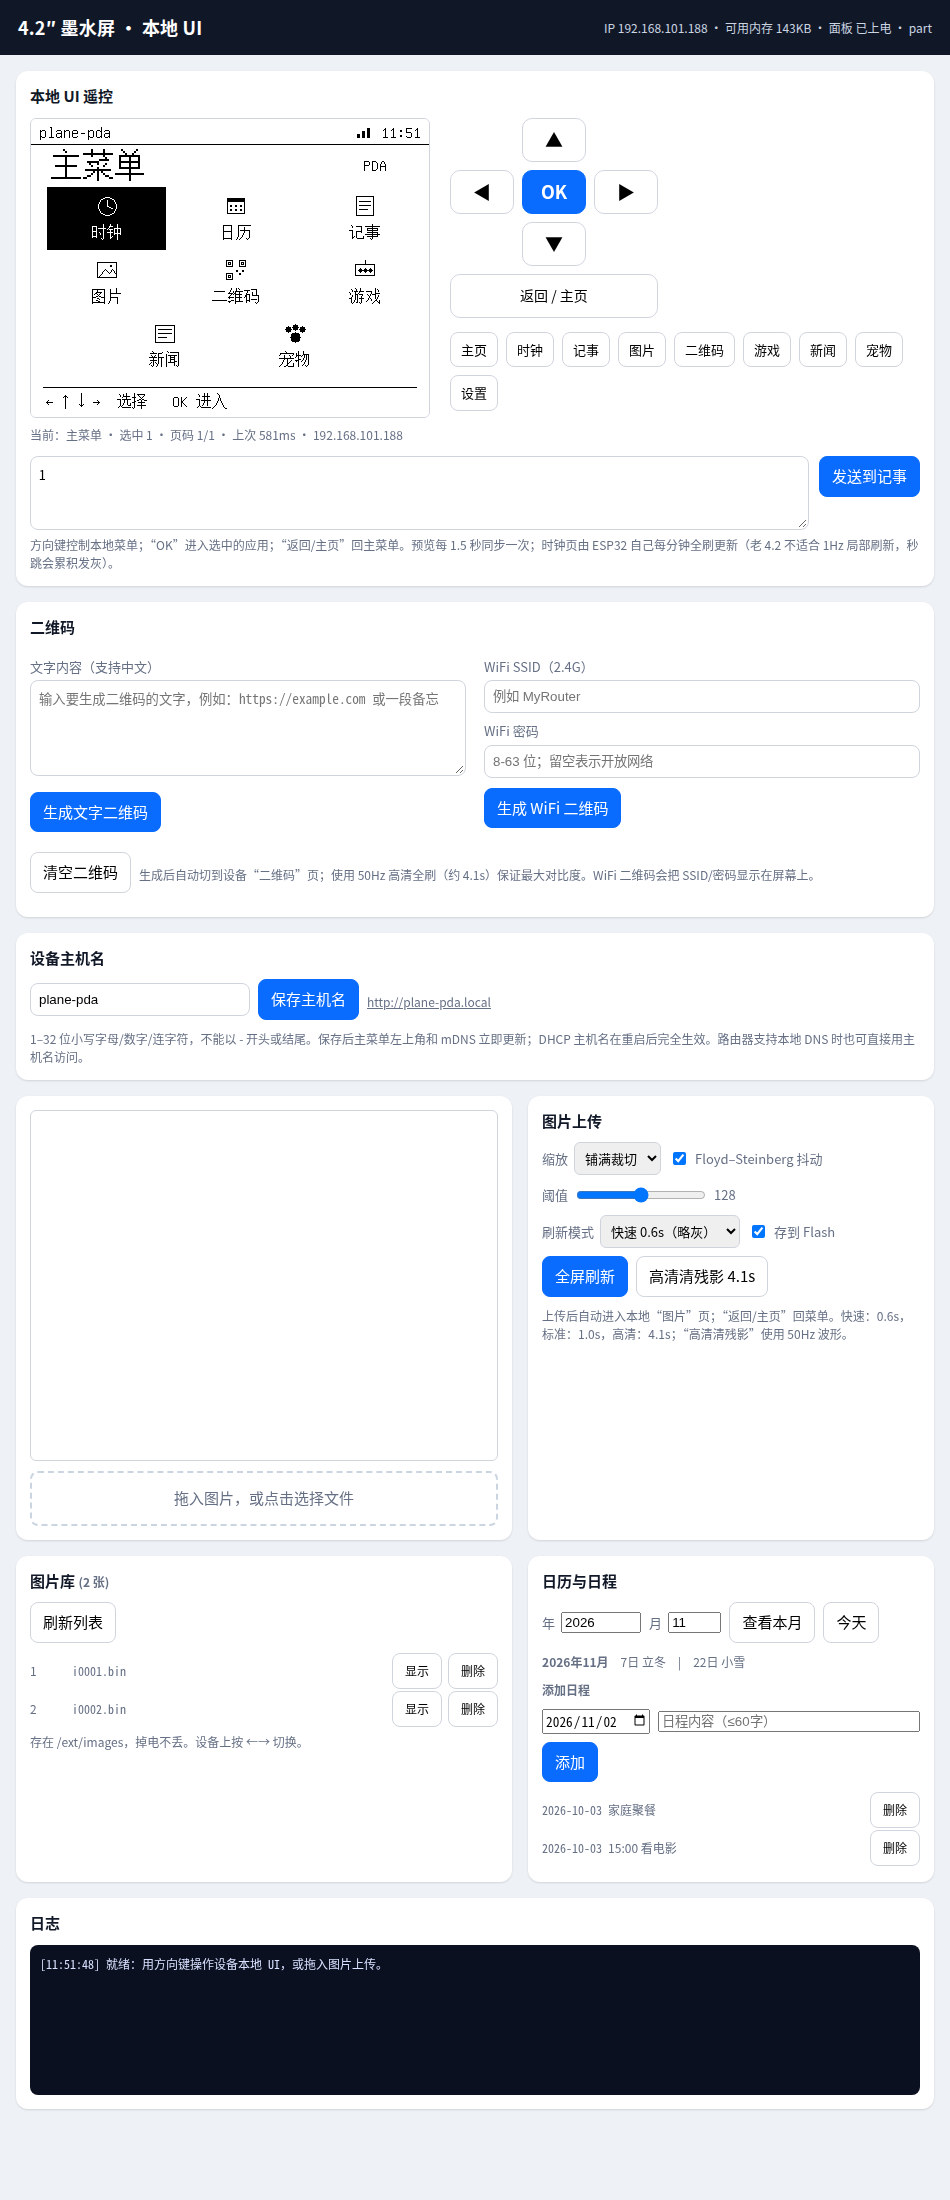
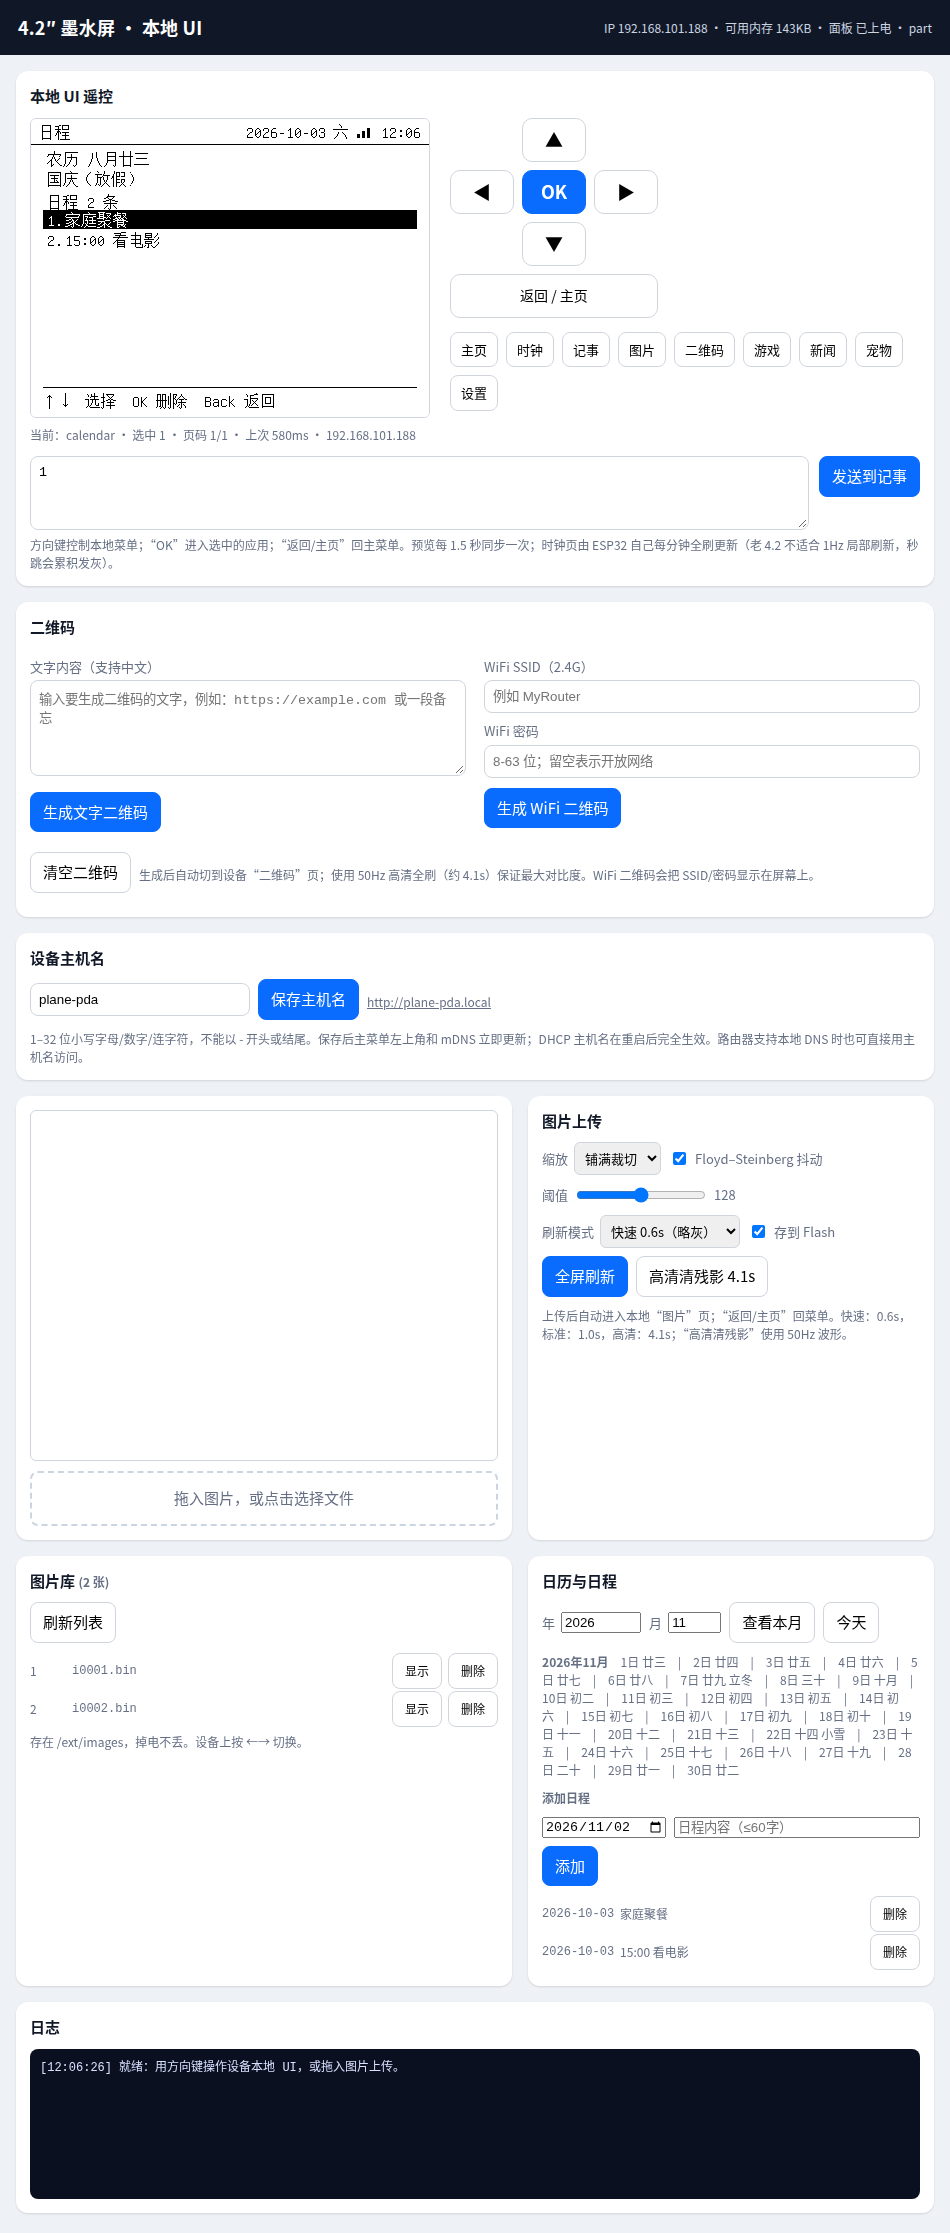
Show the Chinese lunar date in the calendar

diff --git a/firmware/epaper42_web/calendar_impl.h b/firmware/epaper42_web/calendar_impl.h
@@ -32,6 +32,89 @@ static int calDow(int y, int m, int d) {     // 0 = Sunday
   return (y + y/4 - y/100 + y/400 + t[m-1] + d) % 7;
 }
 
+
+// ---------------- Chinese lunar calendar ----------------
+static int calLeapMonth(int y) { return CAL_LUNAR_INFO[y - CAL_LUNAR_Y0] & 0xf; }
+static int calLeapDays(int y) {
+  if (!calLeapMonth(y)) return 0;
+  return (CAL_LUNAR_INFO[y - CAL_LUNAR_Y0] & 0x10000) ? 30 : 29;
+}
+static int calLunarMonthDays(int y, int m) {
+  return (CAL_LUNAR_INFO[y - CAL_LUNAR_Y0] & (0x10000 >> m)) ? 30 : 29;
+}
+static int calLunarYearDays(int y) {
+  uint32_t info = CAL_LUNAR_INFO[y - CAL_LUNAR_Y0];
+  int sum = 348;
+  for (uint32_t i = 0x8000; i > 0x8; i >>= 1) if (info & i) sum++;
+  return sum + calLeapDays(y);
+}
+
+static long calJdn(int y, int m, int d) {
+  int a = (14 - m) / 12, yy = y + 4800 - a, mm = m + 12 * a - 3;
+  return d + (153L * mm + 2) / 5 + 365L * yy + yy / 4 - yy / 100 + yy / 400 - 32045;
+}
+
+// Gregorian -> lunar.  Returns false when the year is outside 1900..2100.
+static bool calSolar2Lunar(int y, int m, int d, int& ly, int& lm, int& ld, bool& leap) {
+  if (y < CAL_LUNAR_Y0 || y >= CAL_LUNAR_Y0 + CAL_LUNAR_N) return false;
+  long offset = calJdn(y, m, d) - calJdn(1900, 1, 31);
+  int i = 1900, temp = 0;
+  while (i < 2101 && offset > 0) { temp = calLunarYearDays(i); offset -= temp; i++; }
+  if (offset < 0) { offset += temp; i--; }
+  ly = i;
+  int lp = calLeapMonth(i);
+  leap = false;
+  int mth = 1;
+  while (mth < 13 && offset > 0) {
+    if (lp > 0 && mth == lp + 1 && !leap) { mth--; leap = true; temp = calLeapDays(i); }
+    else { temp = calLunarMonthDays(i, mth); }
+    if (leap && mth == lp + 1) leap = false;
+    offset -= temp; mth++;
+  }
+  if (offset == 0 && lp > 0 && mth == lp + 1) {
+    if (leap) leap = false;
+    else { leap = true; mth--; }
+  }
+  if (offset < 0) { offset += temp; mth--; }
+  lm = mth;
+  ld = (int)offset + 1;
+  return true;
+}
+
+static String calLunarDayName(int d) {
+  static const char* pre[4] = {"初", "十", "廿", "三"};
+  static const char* unit[10] = {"十", "一", "二", "三", "四", "五", "六", "七", "八", "九"};
+  if (d == 10) return "初十";
+  if (d == 20) return "二十";
+  if (d == 30) return "三十";
+  if (d < 1 || d > 30) return "";
+  return String(pre[(d - 1) / 10]) + unit[d % 10];
+}
+
+// "九月廿四" / "闰六月十五"
+static String calLunarText(int y, int m, int d) {
+  int ly, lm, ld; bool leap;
+  if (!calSolar2Lunar(y, m, d, ly, lm, ld, leap)) return "";
+  String s;
+  if (leap) s += "闰";
+  s += CAL_LUNAR_MONTH[lm - 1]; s += "月";
+  s += calLunarDayName(ld);
+  return s;
+}
+
+// Compact 2-character label for a calendar cell: month name on day 1, else day.
+static String calLunarCell(int y, int m, int d) {
+  int ly, lm, ld; bool leap;
+  if (!calSolar2Lunar(y, m, d, ly, lm, ld, leap)) return "";
+  if (ld == 1) {
+    String s;
+    if (leap) s += "闰";
+    s += CAL_LUNAR_MONTH[lm - 1]; s += "月";
+    return s;
+  }
+  return calLunarDayName(ld);
+}
+
 static const char* CAL_WEEK[7] = {"日","一","二","三","四","五","六"};
 
 static const CalHol* calHolAt(int y, int m, int d, uint8_t* kind = nullptr) {
@@ -160,7 +243,7 @@ static void calMove(int days) {
 
 // ---------------------------------------------------------------- drawing
 static void calDrawCell(int x, int y, int w, int h, int day, bool selected, bool today,
-                        int termIdx, const CalHol* hol, int evCount) {
+                        int termIdx, const CalHol* hol, int evCount, const String& lunar) {
   if (selected) fillRect(x, y, w, h, INK);
   uint8_t ink = selected ? PAPER : INK;
   if (today && !selected) drawRect(x, y, w, h, INK);
@@ -178,6 +261,8 @@ static void calDrawCell(int x, int y, int w, int h, int day, bool selected, bool
     drawText(x + 3, ty, nm, 1, ink);
   } else if (termIdx >= 0) {
     drawText(x + 3, ty, CAL_TERM[termIdx], 1, ink);   // 2 chars = 32 px, fits 55
+  } else if (lunar.length()) {
+    drawText(x + 3, ty, lunar, 1, ink);        // 农历 day / month name
   } else if (evCount > 0) {
     drawText(x + 3, ty, String("•") + String(evCount), 1, ink);
   }
@@ -194,6 +279,8 @@ static void drawCalendarApp() {
     uint8_t kind = 0;
     const CalHol* hol = calHolAt(calY, calM, calD, &kind);
     int term = calTermAt(calY, calM, calD);
+    String lun = calLunarText(calY, calM, calD);
+    if (lun.length()) { drawText(16, y, String("农历 ") + lun, 1, INK); y += 20; }
     if (hol) {
       drawText(16, y, (String(hol->name) + (kind == 2 ? "（调休上班）" : "（放假）")), 1, INK);
       y += 20;
@@ -251,7 +338,8 @@ static void drawCalendarApp() {
     bool sel = (d == calD);
     bool tod = (calY == tY && calM == tM && d == tD);
     calDrawCell(cx, cy, cw - 1, chh - 1, d, sel, tod,
-                calTermAt(calY, calM, d), calHolAt(calY, calM, d), calCountEvents(calY, calM, d));
+                calTermAt(calY, calM, d), calHolAt(calY, calM, d), calCountEvents(calY, calM, d),
+                calLunarCell(calY, calM, d));
   }
 
   // bottom info for the selected day
@@ -261,6 +349,7 @@ static void drawCalendarApp() {
   int term = calTermAt(calY, calM, calD);
   int evn = calCountEvents(calY, calM, calD);
   info = String(calM) + "月" + String(calD) + "日 周" + CAL_WEEK[calDow(calY, calM, calD)];
+  { String lun = calLunarText(calY, calM, calD); if (lun.length()) { info += " "; info += lun; } }
   if (hol) { info += "  "; info += hol->name; if (kind == 2) info += "(班)"; }
   if (term >= 0) { info += "  "; info += CAL_TERM[term]; }
   if (evn > 0) { info += "  日程"; info += evn; }

diff --git a/tools/gen_calendar_data.py b/tools/gen_calendar_data.py
@@ -80,6 +80,32 @@ def term_day(year,k):
     assert dt.month==k//2+1, (year,k,dt)
     return dt.day
 
+# Classic lunarInfo table (1900..2100). Each entry encodes the leap month in the
+# low nibble, the 12 month lengths in bits 15..4 and the leap-month length in
+# bit 16.
+LUNAR_INFO = [
+0x04bd8,0x04ae0,0x0a570,0x054d5,0x0d260,0x0d950,0x16554,0x056a0,0x09ad0,0x055d2,
+0x04ae0,0x0a5b6,0x0a4d0,0x0d250,0x1d255,0x0b540,0x0d6a0,0x0ada2,0x095b0,0x14977,
+0x04970,0x0a4b0,0x0b4b5,0x06a50,0x06d40,0x1ab54,0x02b60,0x09570,0x052f2,0x04970,
+0x06566,0x0d4a0,0x0ea50,0x06e95,0x05ad0,0x02b60,0x186e3,0x092e0,0x1c8d7,0x0c950,
+0x0d4a0,0x1d8a6,0x0b550,0x056a0,0x1a5b4,0x025d0,0x092d0,0x0d2b2,0x0a950,0x0b557,
+0x06ca0,0x0b550,0x15355,0x04da0,0x0a5b0,0x14573,0x052b0,0x0a9a8,0x0e950,0x06aa0,
+0x0aea6,0x0ab50,0x04b60,0x0aae4,0x0a570,0x05260,0x0f263,0x0d950,0x05b57,0x056a0,
+0x096d0,0x04dd5,0x04ad0,0x0a4d0,0x0d4d4,0x0d250,0x0d558,0x0b540,0x0b6a0,0x195a6,
+0x095b0,0x049b0,0x0a974,0x0a4b0,0x0b27a,0x06a50,0x06d40,0x0af46,0x0ab60,0x09570,
+0x04af5,0x04970,0x064b0,0x074a3,0x0ea50,0x06b58,0x05ac0,0x0ab60,0x096d5,0x092e0,
+0x0c960,0x0d954,0x0d4a0,0x0da50,0x07552,0x056a0,0x0abb7,0x025d0,0x092d0,0x0cab5,
+0x0a950,0x0b4a0,0x0baa4,0x0ad50,0x055d9,0x04ba0,0x0a5b0,0x15176,0x052b0,0x0a930,
+0x07954,0x06aa0,0x0ad50,0x05b52,0x04b60,0x0a6e6,0x0a4e0,0x0d260,0x0ea65,0x0d530,
+0x05aa0,0x076a3,0x096d0,0x04afb,0x04ad0,0x0a4d0,0x1d0b6,0x0d250,0x0d520,0x0dd45,
+0x0b5a0,0x056d0,0x055b2,0x049b0,0x0a577,0x0a4b0,0x0aa50,0x1b255,0x06d20,0x0ada0,
+0x14b63,0x09370,0x049f8,0x04970,0x064b0,0x168a6,0x0ea50,0x06b20,0x1a6c4,0x0aae0,
+0x0a2e0,0x0d2e3,0x0c960,0x0d557,0x0d4a0,0x0da50,0x05d55,0x056a0,0x0a6d0,0x055d4,
+0x052d0,0x0a9b8,0x0a950,0x0b4a0,0x0b6a6,0x0ad50,0x055a0,0x0aba4,0x0a5b0,0x052b0,
+0x0b273,0x06930,0x07337,0x06aa0,0x0ad50,0x14b55,0x04b60,0x0a570,0x054e4,0x0d160,
+0x0e968,0x0d520,0x0daa0,0x16aa6,0x056d0,0x04ae0,0x0a9d4,0x0a2d0,0x0d150,0x0f252,
+0x0d520]
+
 def main():
     y0,y1=2025,2035
     lines=[]
@@ -107,6 +133,17 @@ def main():
         days=[term_day(y,k) for k in range(24)]
         lines.append('  {' + ','.join('%d'%d for d in days) + '},  // %d'%y)
     lines.append('};')
+    lines.append('')
+    lines.append('// Lunar calendar table 1900..2100 (leap month in low nibble, month')
+    lines.append('// lengths in bits 15..4, leap-month length in bit 16).')
+    lines.append('static const int CAL_LUNAR_Y0 = 1900;')
+    lines.append('static const int CAL_LUNAR_N = %d;' % len(LUNAR_INFO))
+    lines.append('static const uint32_t CAL_LUNAR_INFO[%d] = {' % len(LUNAR_INFO))
+    for i in range(0, len(LUNAR_INFO), 8):
+        lines.append('  ' + ','.join('0x%05x' % v for v in LUNAR_INFO[i:i+8]) + ',')
+    lines.append('};')
+    lines.append('')
+    lines.append('static const char* const CAL_LUNAR_MONTH[12] = {"正","二","三","四","五","六","七","八","九","十","冬","腊"};')
     open('firmware/epaper42_web/calendar_data.h','w').write('\n'.join(lines)+'\n')
     print('wrote firmware/epaper42_web/calendar_data.h')
     # print a couple of spot checks

diff --git a/firmware/epaper42_web/calendar_data.h b/firmware/epaper42_web/calendar_data.h
@@ -52,3 +52,38 @@ static const uint8_t CAL_TERM_DAY[11][24] = {
   {5,20,4,18,5,20,5,20,5,21,5,21,7,23,7,23,7,23,8,23,7,22,7,22},  // 2034
   {5,20,4,19,6,21,5,20,5,21,6,21,7,23,7,23,8,23,8,23,7,22,7,22},  // 2035
 };
+
+// Lunar calendar table 1900..2100 (leap month in low nibble, month
+// lengths in bits 15..4, leap-month length in bit 16).
+static const int CAL_LUNAR_Y0 = 1900;
+static const int CAL_LUNAR_N = 201;
+static const uint32_t CAL_LUNAR_INFO[201] = {
+  0x04bd8,0x04ae0,0x0a570,0x054d5,0x0d260,0x0d950,0x16554,0x056a0,
+  0x09ad0,0x055d2,0x04ae0,0x0a5b6,0x0a4d0,0x0d250,0x1d255,0x0b540,
+  0x0d6a0,0x0ada2,0x095b0,0x14977,0x04970,0x0a4b0,0x0b4b5,0x06a50,
+  0x06d40,0x1ab54,0x02b60,0x09570,0x052f2,0x04970,0x06566,0x0d4a0,
+  0x0ea50,0x06e95,0x05ad0,0x02b60,0x186e3,0x092e0,0x1c8d7,0x0c950,
+  0x0d4a0,0x1d8a6,0x0b550,0x056a0,0x1a5b4,0x025d0,0x092d0,0x0d2b2,
+  0x0a950,0x0b557,0x06ca0,0x0b550,0x15355,0x04da0,0x0a5b0,0x14573,
+  0x052b0,0x0a9a8,0x0e950,0x06aa0,0x0aea6,0x0ab50,0x04b60,0x0aae4,
+  0x0a570,0x05260,0x0f263,0x0d950,0x05b57,0x056a0,0x096d0,0x04dd5,
+  0x04ad0,0x0a4d0,0x0d4d4,0x0d250,0x0d558,0x0b540,0x0b6a0,0x195a6,
+  0x095b0,0x049b0,0x0a974,0x0a4b0,0x0b27a,0x06a50,0x06d40,0x0af46,
+  0x0ab60,0x09570,0x04af5,0x04970,0x064b0,0x074a3,0x0ea50,0x06b58,
+  0x05ac0,0x0ab60,0x096d5,0x092e0,0x0c960,0x0d954,0x0d4a0,0x0da50,
+  0x07552,0x056a0,0x0abb7,0x025d0,0x092d0,0x0cab5,0x0a950,0x0b4a0,
+  0x0baa4,0x0ad50,0x055d9,0x04ba0,0x0a5b0,0x15176,0x052b0,0x0a930,
+  0x07954,0x06aa0,0x0ad50,0x05b52,0x04b60,0x0a6e6,0x0a4e0,0x0d260,
+  0x0ea65,0x0d530,0x05aa0,0x076a3,0x096d0,0x04afb,0x04ad0,0x0a4d0,
+  0x1d0b6,0x0d250,0x0d520,0x0dd45,0x0b5a0,0x056d0,0x055b2,0x049b0,
+  0x0a577,0x0a4b0,0x0aa50,0x1b255,0x06d20,0x0ada0,0x14b63,0x09370,
+  0x049f8,0x04970,0x064b0,0x168a6,0x0ea50,0x06b20,0x1a6c4,0x0aae0,
+  0x0a2e0,0x0d2e3,0x0c960,0x0d557,0x0d4a0,0x0da50,0x05d55,0x056a0,
+  0x0a6d0,0x055d4,0x052d0,0x0a9b8,0x0a950,0x0b4a0,0x0b6a6,0x0ad50,
+  0x055a0,0x0aba4,0x0a5b0,0x052b0,0x0b273,0x06930,0x07337,0x06aa0,
+  0x0ad50,0x14b55,0x04b60,0x0a570,0x054e4,0x0d160,0x0e968,0x0d520,
+  0x0daa0,0x16aa6,0x056d0,0x04ae0,0x0a9d4,0x0a2d0,0x0d150,0x0f252,
+  0x0d520,
+};
+
+static const char* const CAL_LUNAR_MONTH[12] = {"正","二","三","四","五","六","七","八","九","十","冬","腊"};

diff --git a/firmware/epaper42_web/ui_impl.h b/firmware/epaper42_web/ui_impl.h
@@ -814,12 +814,14 @@ String calendarMonthJson(int y, int m) {
     const CalHol* h = calHolAt(y, m, d, &kind);
     int t = calTermAt(y, m, d);
     int e = calCountEvents(y, m, d);
-    if (!h && t < 0 && e == 0) continue;
+    // always include the day so the client always has the lunar label
     if (o.charAt(o.length() - 1) != '[') o += ',';
     o += "{\"d\":"; o += d;
     if (h) { o += ",\"h\":\""; o += h->name; o += "\",\"k\":"; o += (int)kind; }
     if (t >= 0) { o += ",\"t\":\""; o += CAL_TERM[t]; o += "\""; }
     if (e > 0) { o += ",\"e\":"; o += e; }
+    String lun = calLunarCell(y, m, d);
+    if (lun.length()) { o += ",\"l\":\""; o += lun; o += "\""; }
     o += "}";
   }
   o += "]}";

diff --git a/firmware/epaper42_web/webpage.h b/firmware/epaper42_web/webpage.h
@@ -478,6 +478,7 @@ function calRenderMonth(j){
   const items=[];
   for(const d of j.days){
     let s=d.d+'日';
+    if(d.l) s+=' '+d.l;
     if(d.h) s+=' '+d.h+(d.k==2?'(班)':'');
     if(d.t) s+=' '+d.t;
     if(d.e) s+=' · '+d.e+'日程';

diff --git a/docs/CALENDAR.md b/docs/CALENDAR.md
@@ -1,7 +1,8 @@
 # Calendar
 
 A month calendar on the device with Chinese public holidays, 调休 (make-up
-workdays), the 24 solar terms (节气) and your own events.
+workdays), the 24 solar terms (节气), the **lunar calendar (农历)** and your own
+events.
 
 ## Device
 
@@ -18,8 +19,13 @@ In the day view, `↑`/`↓` pick an event, `OK` deletes it, `Back` returns.
 
 ![Day detail](images/calendar_day.png)
 
-Cells show the holiday name (e.g. `国庆`), `班` on a make-up workday, or the
-solar term (`立冬`). Today is outlined; the selected day is inverted.
+Cells show, in order of priority: the holiday name (e.g. `国庆`), `班` on a
+make-up workday, the solar term (`立冬`), otherwise the **lunar day** (`廿四`),
+with the lunar month name (`十月`) on the first day of a lunar month. Today is
+outlined; the selected day is inverted. The bottom bar shows the full lunar date
+for the selected day, and so does the day-detail screen.
+
+![Lunar calendar](images/calendar_lunar.png)
 
 ## Data
 
@@ -27,6 +33,9 @@ solar term (`立冬`). Today is outlined; the selected day is inverted.
   (国办发明电〔2024〕12号) and 2026 (国办发明电〔2025〕7号).
 - **Solar terms**: computed astronomically (Meeus apparent solar longitude,
   Beijing time) for 2025–2035 and embedded as a small table.
+- **Lunar calendar**: the classic `lunarInfo` table for 1900–2100 (leap months
+  included), converted on the fly; validated against known dates (2025/2026
+  春节, 中秋).
 - Both are generated by [`tools/gen_calendar_data.py`](../tools/gen_calendar_data.py)
   into `firmware/epaper42_web/calendar_data.h`. Re-run it to extend the range.
 
@@ -58,6 +67,6 @@ delete events. `GET/POST /api/calendar?y=&m=`, `GET/POST /api/calendar/events`,
 ## Notes
 
 - Years outside 2025–2035 still render the grid; holidays are only known for
-  2025–2026 and solar terms for 2025–2035.
+  2025–2026, solar terms for 2025–2035 and lunar dates for 1900–2100.
 - `调休` days are marked as workdays (`班`), so a long holiday's make-up Saturday
   is visible at a glance.

diff --git a/README.md b/README.md
@@ -17,7 +17,7 @@ The project also documents how the stock Waveshare loader was sped up from
 
 - **Local UI on the ESP32** — 400×300 1bpp framebuffer, GB2312 + ASCII bitmap font.
 - **Calendar** — month view with Chinese holidays, 调休 workdays, the 24 solar
-  terms and your own events (device, serial and web).
+  terms, the lunar (农历) date and your own events (device, serial and web).
 - **Offline news cache** — lists and articles are cached on the flash and shown
   automatically when the network is unavailable.
 - **Image gallery** — pictures are stored on `/ext/images` (survive reboots,

diff --git a/docs/CHANGELOG.md b/docs/CHANGELOG.md
@@ -1,5 +1,13 @@
 # Changelog
 
+## v0.17.1 — 2026-11-02
+
+- Calendar now shows the **lunar date** (农历): the lunar day in every cell, the
+  lunar month name on the 1st, and the full date in the info bar and day detail.
+- Lunar conversion uses the classic 1900–2100 table (leap months handled);
+  validated against 2025/2026 Spring Festival and Mid-Autumn dates.
+- Web calendar card lists the lunar label for each day; month JSON gains `l`.
+
 ## v0.17.0 — 2026-11-02
 
 - New **Calendar** app: month grid with Chinese public holidays, 调休 workdays
